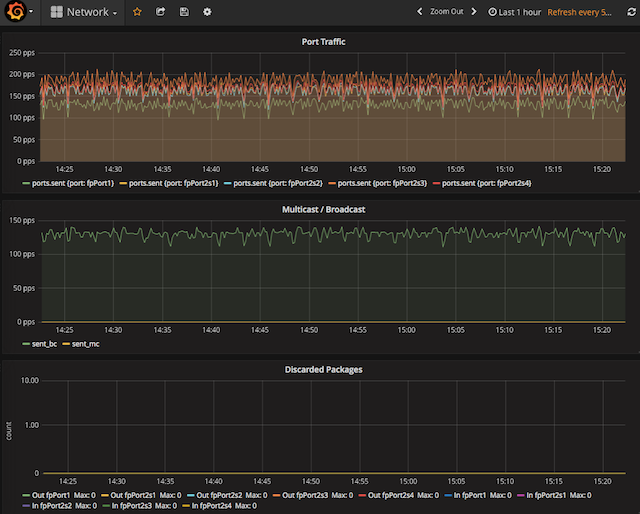
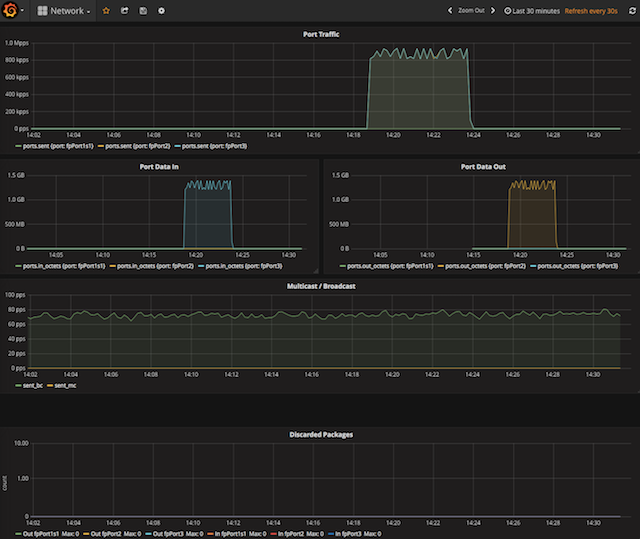
added some additional charts to network dashboard

diff --git a/telegraf-snaproute/snaproute/snaproute.go b/telegraf-snaproute/snaproute/snaproute.go
@@ -46,6 +46,8 @@ type Ports struct {
 			IfEtherPkts   int64  `json:"IfEtherPkts"`
 			IfEtherMCPkts int64  `json:"IfEtherMCPkts"`
 			IfEtherBCPkts int64  `json:"IfEtherBcastPkts"`
+			IfInOctets    int64  `json:"IfInOctets"`
+			IfOutOctets   int64  `json:"IfOutOctets"`
 		} `json:"Object"`
 	} `json:"Objects"`
 }
@@ -65,6 +67,8 @@ type SnapRoute struct {
 	lastEtherPkts     [512]int64
 	lastEtherMCPkts   [512]int64
 	lastEtherBCPkts   [512]int64
+	lastInOctets      [512]int64
+	lastOutOctets     [512]int64
 }
 
 var sampleConfig = `
@@ -120,6 +124,8 @@ func (s *SnapRoute) Gather(acc telegraf.Accumulator) error {
 				etherPkts    int64 = 0
 				etherMCPkts  int64 = 0
 				etherBCPkts  int64 = 0
+				inOctets     int64 = 0
+				outOctets    int64 = 0
 			)
 
 			if port.Object.IfInDiscards == 0 {
@@ -163,12 +169,32 @@ func (s *SnapRoute) Gather(acc telegraf.Accumulator) error {
 			}
 			s.lastEtherBCPkts[port.Object.IfIndex] = port.Object.IfEtherBCPkts
 
-			if metricsCount == 5 {
+			if port.Object.IfInOctets == 0 {
+				metricsCount++
+				acc.AddGauge("ports", map[string]interface{}{"in_octets": 0}, tags, now)
+			} else if s.lastInOctets[port.Object.IfIndex] != 0 {
+				metricsCount++
+				inOctets = (port.Object.IfInOctets - s.lastInOctets[port.Object.IfIndex]) / int64(diffTime)
+			}
+			s.lastInOctets[port.Object.IfIndex] = port.Object.IfInOctets
+
+			if port.Object.IfOutOctets == 0 {
+				metricsCount++
+				acc.AddGauge("ports", map[string]interface{}{"out_octets": 0}, tags, now)
+			} else if s.lastOutOctets[port.Object.IfIndex] != 0 {
+				metricsCount++
+				outOctets = (port.Object.IfOutOctets - s.lastOutOctets[port.Object.IfIndex]) / int64(diffTime)
+			}
+			s.lastOutOctets[port.Object.IfIndex] = port.Object.IfOutOctets
+
+			if metricsCount == 7 {
 				acc.AddCounter("ports", map[string]interface{}{"discard_in": inDiscards}, tags, now)
 				acc.AddCounter("ports", map[string]interface{}{"discard_out": outDiscards}, tags, now)
 				acc.AddGauge("ports", map[string]interface{}{"sent": etherPkts}, tags, now)
 				acc.AddGauge("ports", map[string]interface{}{"sent_mc": etherMCPkts}, tags, now)
 				acc.AddGauge("ports", map[string]interface{}{"sent_bc": etherBCPkts}, tags, now)
+				acc.AddGauge("ports", map[string]interface{}{"in_octets": inOctets}, tags, now)
+				acc.AddGauge("ports", map[string]interface{}{"out_octets": outOctets}, tags, now)
 			}
 		}
 	}

diff --git a/docs/userguide.md b/docs/userguide.md
@@ -23,6 +23,8 @@ The “Health Index” chart shows an overall index score of the health of the s
 
 Visualizes telemetry data from the switching silicon. “Port Traffic” shows “packets per seconds sent” for the individual active ports.
 
+“Port Data In” and “Port Data Out” show “bytes per seconds sent and received”.
+
 “Multicast/Broadcast” shows “max packets per seconds sent” of multicast and broadcast packets overall.
 
 “Discarded Packages” shows “count of packages” discarded since last measurement for ingress and egress for the individual active ports.
